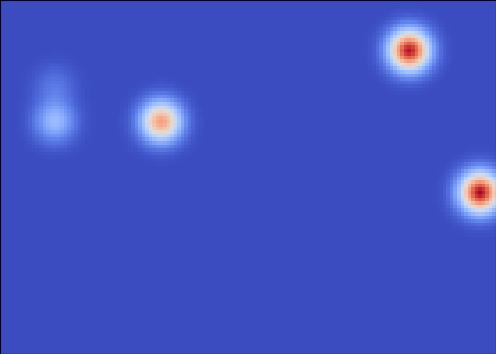
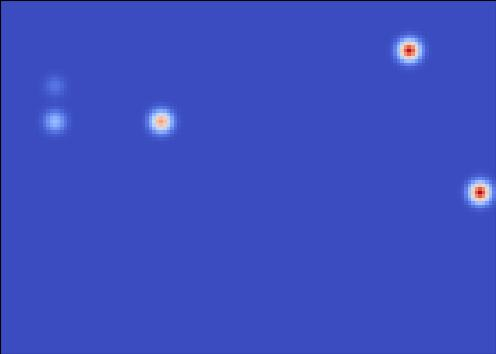
add img

diff --git a/src/libs/cnt2img.py b/src/libs/cnt2img.py
@@ -2,10 +2,13 @@
 
 import numpy as np
 import pandas as pd
+import random
 from logging import getLogger
 import seaborn as sns
 import matplotlib.pyplot as plt
 from mpl_toolkits.mplot3d import Axes3D
+from transform import BaseTransform
+from PIL import Image, ImageDraw
 
 
 logger = getLogger(__name__)
@@ -13,9 +16,10 @@ logger = getLogger(__name__)
 class cnt2img(object):
     def __init__(self):
         self.rad_cnt_path = "../../data/rad_cnt/result"
-        for i in range(5):
+        for i in range(100):
             self.i = i
             self.create_rad_cnt_img()
+            self.cut_img()
             self.create_correct_img()
     
     def create_rad_cnt_img(self):
@@ -55,7 +59,7 @@ class cnt2img(object):
         pdf = np.zeros_like(X)
         for i in range(len(source)):
             xi, yi, value = source['x'][i], source['y'][i], source['value_normalized'][i]
-            sigma = 0.4  # 標準偏差（適切な値に調整）
+            sigma = 0.2  # 標準偏差（適切な値に調整）
             pdf += (1 / (sigma * np.sqrt(2 * np.pi))) * np.exp(-((X - xi)**2 + (Y - yi)**2) / (2 * sigma**2)) * value
 
         # 2Dヒートマップの表示
@@ -66,6 +70,25 @@ class cnt2img(object):
         plt.yticks([])
         plt.savefig(img_path, format="jpg", bbox_inches='tight', pad_inches=0)
         plt.close()
+
+    def cut_img(self):
+        img_path = "../../data/img/result" + str(self.i) + ".jpg"
+        input_image = Image.open(img_path) #(496, 369) 183024
+
+        # 切り取りたい領域の座標（左上と右下）を指定
+        left = random.randint(0, 446)  # 左上の x 座標
+        top = random.randint(0, 319)  # 左上の y 座標
+        right = left + random.randint(20, 50) # 右下の x 座標
+        bottom = top + random.randint(20, 50) # 右下の y 座標
+
+        # 切り取る領域を白で埋める
+        draw = ImageDraw.Draw(input_image)
+        draw.rectangle([left, top, right, bottom], fill=(255, 255, 255))
+        
+        # 切り取った画像を保存
+        input_image.save(img_path, format="JPEG")
+
+
 
 if __name__ == "__main__":
     c2i = cnt2img()

diff --git a/src/libs/dataset.py b/src/libs/dataset.py
@@ -1,0 +1,28 @@
+import os
+from PIL import Image
+import torch
+from torch.utils.data import Dataset
+
+class CustomDataset(Dataset):
+    def __init__(
+            self, 
+            data_dir, 
+            transform=None,
+        ) -> None:
+            super().__init__()
+            self.data_dir = data_dir
+            self.transform = transform 
+            self.image_files = os.listdir(data_dir)
+
+    def __len__(self):
+          return len(self.image_files)
+    
+    def __getitem__(self, idx):
+          
+        img_name = os.path.join(self.data_dir, self.image_files[idx])
+        image = Image.open(img_name)
+        
+        if self.transform:
+            image = self.transform(image)
+
+        return image
